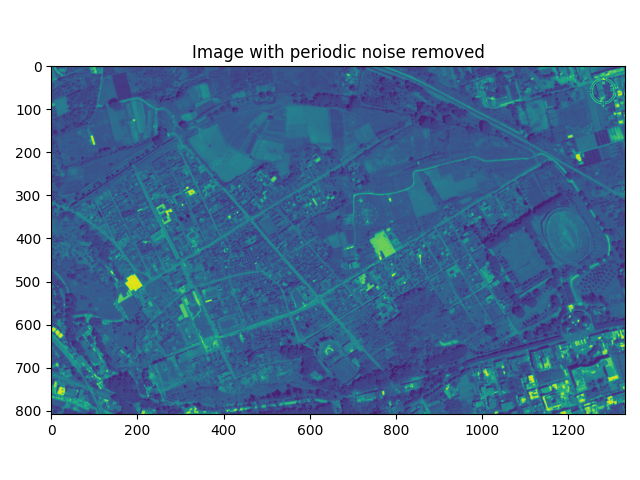
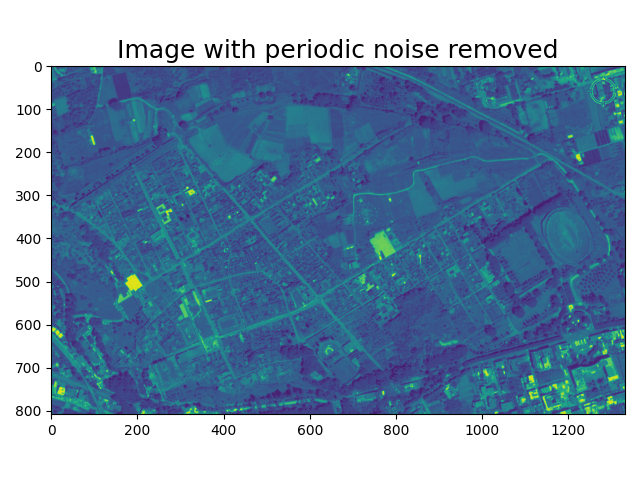
Fixed most font sizes

Changed region(s): [[0.1875, 0.0625, 0.875, 0.125]]

diff --git a/fft_simple_example.py b/fft_simple_example.py
@@ -38,13 +38,13 @@ fine_xs = np.linspace(a, b, 10000)
 fine_fxs = f(fine_xs)
 
 # Plot everything
-plt.figure(figsize=(10, 10))
+plt.figure(figsize=(10, 7))
 plt.plot(fine_xs, fine_fxs, label='Full function')
 plt.scatter(xs, fxs, c='r', label='Discrete sample points')
-plt.legend()
-plt.xlabel('x')
-plt.ylabel('y')
-plt.title('4sin(2x) - 1.5cos(5x) + 0.3sin(-5x) + 0.4cos(2x) - Sampled with 128 points')
+plt.legend(fontsize=14)
+plt.xlabel('x', fontdict={'fontsize':18})
+plt.ylabel('y', fontdict={'fontsize':18})
+plt.title('$4sin(2x) - 1.5cos(5x) + 0.3sin(-5x) + 0.4cos(2x)$ - Sampled with 128 points', fontdict={'fontsize':18})
 plt.tight_layout()
 plt.savefig(f'{N}sample_fft_func.png')
 plt.show()
@@ -58,12 +58,12 @@ mags = magnitudes(fft_result)
 # The frequencies of our matched up amplitudes
 freqs = np.linspace(0, N/sample_rate - 1, N)
 # Let's just look at the first 20 points
-plt.figure(figsize=(10, 10))
+plt.figure(figsize=(10, 7))
 plt.stem(freqs[:20], mags[:20], label='Average amplitudes')
-plt.xlabel('Frequency value')
-plt.ylabel('Amplitude')
-plt.legend()
-plt.title('Average amplitude of each frequency value from the FFT')
+plt.xlabel('Frequency value', fontdict={'fontsize':18})
+plt.ylabel('Amplitude', fontdict={'fontsize':18})
+plt.legend(fontsize=14)
+plt.title('Average amplitude of each frequency value from the FFT', fontdict={'fontsize':18})
 plt.tight_layout()
 plt.savefig(f'{N}sample_fft_stems.png')
 plt.show()
@@ -82,13 +82,13 @@ fxs_offset = fxs + offsets
 # The code below this is nearly identical to that explained above
 
 # Plot everything
-plt.figure(figsize=(10, 10))
+plt.figure(figsize=(10, 7))
 plt.plot(fine_xs, fine_fxs, label='Full function')
 plt.scatter(xs, fxs_offset, c='r', label='Discrete sample points')
-plt.legend()
-plt.xlabel('x')
-plt.ylabel('y')
-plt.title('4sin(2x) - 1.5cos(5x) + 0.3sin(-5x) + 0.4cos(2x) - Sampled with 128 noisy points')
+plt.legend(fontsize=14)
+plt.xlabel('x', fontdict={'fontsize':18})
+plt.ylabel('y', fontdict={'fontsize':18})
+plt.title('$4sin(2x) - 1.5cos(5x) + 0.3sin(-5x) + 0.4cos(2x)$ - Sampled with 128 noisy points', fontdict={'fontsize':16})
 plt.tight_layout()
 plt.savefig(f'{N}sample_noisy_fft_func.png')
 plt.show()
@@ -100,12 +100,12 @@ fft_result_offset = (1/N)*np.fft.fft(fxs_offset)
 offset_mags = magnitudes(fft_result_offset)
 
 # Let's just look at the first 20 points
-plt.figure(figsize=(10, 10))
+plt.figure(figsize=(10, 7))
 plt.stem(freqs[:20], offset_mags[:20], label='Average amplitudes')
-plt.xlabel('Frequency value')
-plt.ylabel('Amplitude')
-plt.legend()
-plt.title('Average amplitude of each frequency value from the noisy FFT')
+plt.xlabel('Frequency value', fontdict={'fontsize':18})
+plt.ylabel('Amplitude', fontdict={'fontsize':18})
+plt.legend(fontsize=14)
+plt.title('Average amplitude of each frequency value from the noisy FFT', fontdict={'fontsize':18})
 plt.tight_layout()
 plt.savefig(f'{N}sample_noisy_fft_stems.png')
 plt.show()
@@ -122,13 +122,13 @@ plt.show()
 # to see how close to our original plot we are:
 s = N*np.fft.ifft(fft_result)
 
-plt.figure(figsize=(10, 10))
+plt.figure(figsize=(10, 7))
 plt.plot(fine_xs, fine_fxs, label='Full function')
 plt.scatter(xs, s.real, c='r', label='Discrete inversed points')
-plt.legend()
-plt.xlabel('x')
-plt.ylabel('y')
-plt.title('4sin(2x) - 1.5cos(5x) + 0.3sin(-5x) + 0.4cos(2x) - Inverse FFT')
+plt.legend(fontsize=14)
+plt.xlabel('x', fontdict={'fontsize':18})
+plt.ylabel('y', fontdict={'fontsize':18})
+plt.title('$4sin(2x) - 1.5cos(5x) + 0.3sin(-5x) + 0.4cos(2x)$ - Inverse FFT', fontdict={'fontsize':18})
 plt.tight_layout()
 plt.savefig(f'{N}sample_inverse_fft_func.png')
 plt.show()
@@ -169,12 +169,12 @@ padded_freqs = np.linspace(0, N/sample_rate - 1, padded_N)
 
 padded_mags = magnitudes(padded_fft_result)
 
-plt.figure(figsize=(10, 10))
+plt.figure(figsize=(10, 7))
 plt.stem(padded_freqs[:20], padded_mags[:20], label='Average amplitudes')
-plt.xlabel('Frequency value')
-plt.ylabel('Amplitude')
-plt.legend()
-plt.title('Average amplitude of each frequency value from the padded FFT')
+plt.xlabel('Frequency value', fontdict={'fontsize':18})
+plt.ylabel('Amplitude', fontdict={'fontsize':18})
+plt.legend(fontsize=14)
+plt.title('Average amplitude of each frequency value from the padded FFT', fontdict={'fontsize':18})
 plt.tight_layout()
 plt.savefig(f'{N}sample_padded_fft_stems.png')
 plt.show()

diff --git a/fft_dft_computational_time.py b/fft_dft_computational_time.py
@@ -43,10 +43,10 @@ fine_fxs = f(fine_xs)
 # Plot function and sampled points
 plt.plot(fine_xs, fine_fxs, label='Full function')
 plt.scatter(xs, fxs, c='r', label='Discrete sample points')
-plt.legend()
+plt.legend(fontsize=14)
 plt.xlabel('x')
 plt.ylabel('y')
-plt.title('4sin(2x) - 1.5cos(5x) + 0.3sin(0.5x) + 0.4cos(2x)')
+plt.title('$4sin(2x) - 1.5cos(5x) + 0.3sin(0.5x) + 0.4cos(2x)$', fontdict={'fontsize':18})
 plt.show()
 
 
@@ -80,9 +80,9 @@ xtime = np.linspace(3,pmax,len(Dtime))
 plt.plot(xtime,Dtime, label='DFT Time')
 plt.plot(xtime,Ftime, label='FFT Time')
 plt.legend()
-plt.title('Time it takes DFT and FFT for different powers of 2^p')
-plt.xlabel('p')
-plt.ylabel('time (s)')
+plt.title('Time for DFT and FFT with different powers of $2^p$', fontdict={'fontsize':16})
+plt.xlabel('p', fontdict={'fontsize':18})
+plt.ylabel('time (s)', fontdict={'fontsize':18})
 plt.tight_layout()
 plt.savefig('dft_fft_time')
 plt.show()
@@ -93,20 +93,20 @@ n = np.linspace(2**3,2**pmax,1000)
 n2 = n**2
 nlogn = n*np.log2(n)
 
-fig,ax = plt.subplots(1,2)
+fig,ax = plt.subplots(1,2, figsize=(8, 5))
 
 ax[0].plot(xtime,Dtime, label='DFT Time')
 ax[0].plot(xtime,Ftime, label='FFT Time')
-ax[0].set_xlabel('2^p')
-ax[0].set_ylabel('time (s)')
+ax[0].set_xlabel('p in $2^p$', fontdict={'fontsize':18})
+ax[0].set_ylabel('time (s)', fontdict={'fontsize':18})
 ax[0].legend()
-ax[0].set_title('DFT vs FFT computational time')
+ax[0].set_title('DFT vs FFT computational time', fontdict={'fontsize':18})
 
 ax[1].plot(n,n2, label='O(N^2)')
 ax[1].plot(n,nlogn, label = 'O(NlogN)')
-ax[1].set_xlabel('N')
+ax[1].set_xlabel('N', fontdict={'fontsize':18})
 ax[1].legend()
-ax[1].set_title('O(N^2) vs O(NlogN)')
+ax[1].set_title('O(N^2) vs O(NlogN)', fontdict={'fontsize':18})
 
 plt.tight_layout()
 plt.savefig('ON2_ONlogN')
@@ -145,13 +145,13 @@ freqs = np.linspace(0, N/sample_rate - 1, N)
 fig,bx = plt.subplots(1,2)
 
 bx[0].stem(freqs[:20], ampsD[:20], label='Average amplitudes')
-bx[0].set_title('DFT amplitudes')
-bx[0].set_xlabel('frequency')
-bx[0].set_ylabel('amplitude')
+bx[0].set_title('DFT amplitudes', fontdict={'fontsize':18})
+bx[0].set_xlabel('frequency', fontdict={'fontsize':18})
+bx[0].set_ylabel('amplitude', fontdict={'fontsize':18})
 
 bx[1].stem(freqs[:20], ampsF[:20], label='Average amplitudes')
-bx[1].set_title('FFT amplitudes')
-bx[1].set_xlabel('frequency')
+bx[1].set_title('FFT amplitudes', fontdict={'fontsize':18})
+bx[1].set_xlabel('frequency', fontdict={'fontsize':18})
 
 plt.tight_layout()
 plt.savefig('dft_vs_fft')
@@ -159,10 +159,11 @@ plt.show()
 
 
 #plot the error between DFT and FFT
+fig = plt.figure(figsize=(8, 5))
 plt.plot(freqs[:20],abs(ampsD[:20] - ampsF[:20]))
-plt.title('abs error between DFT and FFT coefficient')
-plt.xlabel('frequency')
-plt.ylabel('abs error')
+plt.title('Abs error between DFT and FFT coefficient', fontdict={'fontsize':18})
+plt.xlabel('frequency', fontdict={'fontsize':18})
+plt.ylabel('abs error', fontdict={'fontsize':18})
 plt.tight_layout()
 plt.savefig('dft_fft_errors')
 plt.show()

diff --git a/image_noise.py b/image_noise.py
@@ -4,7 +4,7 @@ import matplotlib.pyplot as plt
 # Read in our image and plot it
 img = plt.imread('aerial.jpg')
 plt.imshow(img)
-plt.title('Original image with periodic noise')
+plt.title('Original image with periodic noise', fontdict={'fontsize':18})
 plt.tight_layout()
 plt.savefig('noise_img.png')
 plt.show()
@@ -19,7 +19,7 @@ scaled_fft = 10*np.log10(np.abs(shift_fft))
 
 # Show the original fft
 plt.imshow(scaled_fft)
-plt.title('Original Power Spectrum')
+plt.title('Original Power Spectrum', fontdict={'fontsize':18})
 plt.tight_layout()
 plt.savefig('og_noise_spectrum.png')
 plt.show()
@@ -27,13 +27,13 @@ plt.show()
 # Show zoomed in power spectrum, and removed peaks
 fig, ax = plt.subplots(1, 3, figsize=(15, 5))
 ax[0].imshow(scaled_fft[290:520, 540:800])
-ax[0].set_title('Original Power Spectrum (zoomed)')
+ax[0].set_title('Original Power Spectrum (zoomed)', fontsize=18)
 ax[1].imshow(scaled_fft[290:520, 540:800] >= 69)
-ax[1].set_title('Periodic noise peaks')
+ax[1].set_title('Periodic noise peaks', fontsize=18)
 new_scaled_fft = np.copy(scaled_fft)[290:520, 540:800]
 new_scaled_fft[new_scaled_fft >= 69] = 0
 ax[2].imshow(new_scaled_fft)
-ax[2].set_title('Spectrum (zoomed) with peaks removed')
+ax[2].set_title('Spectrum with peaks removed', fontsize=18)
 plt.tight_layout()
 plt.savefig('noise_spectrums.png')
 plt.show()
@@ -47,7 +47,7 @@ inverse_img = np.fft.ifft2(inverse_scale)
 
 # Show the final image
 plt.imshow(np.real(inverse_img))
-plt.title('Image with periodic noise removed')
+plt.title('Image with periodic noise removed', fontdict={'fontsize':18})
 plt.tight_layout()
 plt.savefig('final_noise.png')
 plt.show()
